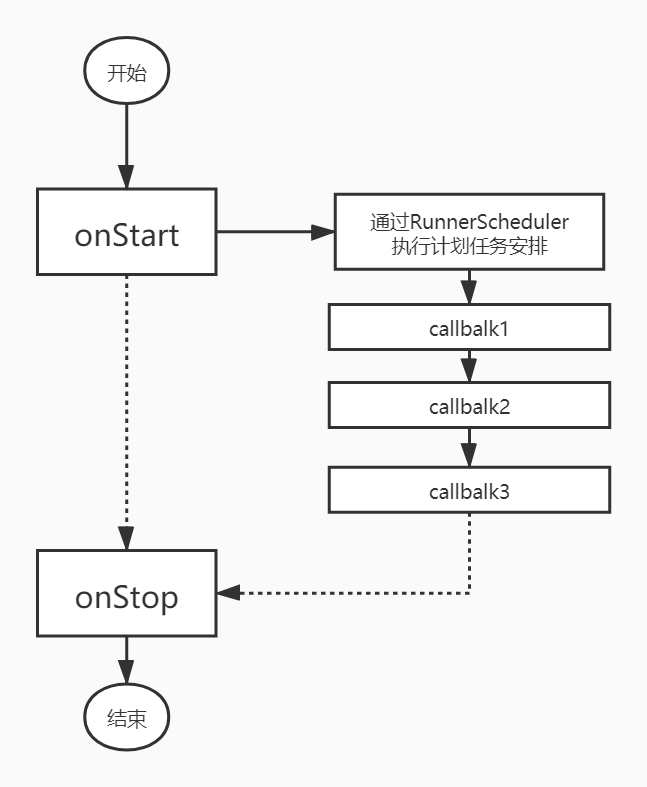
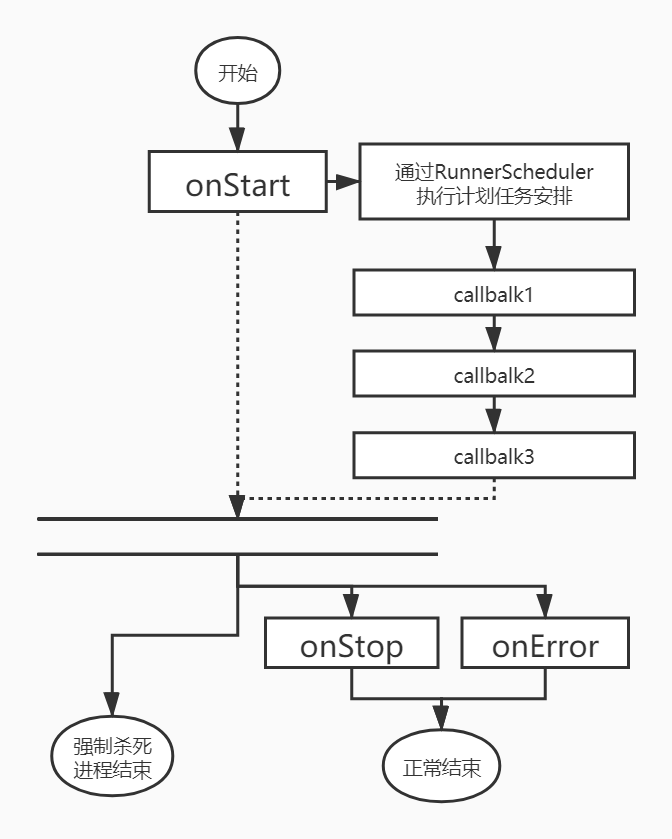
更新操作文档。

diff --git a/vnpy/earnmi_docs/book/context.md b/vnpy/earnmi_docs/book/context.md
@@ -4,7 +4,7 @@
 <span id="app"/>
 ###App与Context
 Context是所有框架的运行环境对象，提供了运行时需要的一些基本支持，如:
-+ 主线程环境
++ 主线程执行引擎对象MainEventEngine
 + 程序目录路径，创建该程序目录路径下的子目录等。
 + 日志输出
 
@@ -18,10 +18,17 @@ app.engine.go(3600*24*10)   #回测执行时间10天
 ```
    
 <span id="MainEventEvent"/>
-###主线程MainEventEvent
+###主线程操作
+主线程操作有三种，即Post事件，post方法，post定时。而主线程执行操作是由MainEventEngine引擎实现的，context只是对其方法的一个封装。
+
+post类型|Context方法|MainEventEngine方法
+--|--|--
+post事件|post()、<br/>post_delay()<br/>、post_at()|postDelay()
+post方法|post_event()|post_event()
+post定时|post_timer()|postTimer()
 
 <span id="post_event"/>
-#####post event
+#####1) post event
 以监听主线程引擎的天数变化事件MainEventEngine.EVNET_DAY_CHANED为例，如下：
 1、定义处理event的callble方法:
 
@@ -39,23 +46,7 @@ engine.register(MainEventEngine.EVNET_DAY_CHANED,onDayChangedEvent)
 engine.unregister(MainEventEngine.EVNET_DAY_CHANED,onDayChangedEvent)
 ```
 
-<span id="post_callable"/>
-#####post callable
-```python
-app = App()
-app.run()
-def run_in_ui_thread(context:Context):
-    app.log_i("run_in_ui_thread() start!") 
-app.post(lambda : run_in_ui_thread(app))
-或者:
-app.post(run_in_ui_thread,{context:app})
-
-```
-
-
-
-<span id="event"/>
-###系统Event事件汇总
+3、系统Event事件汇总
 
 event|data|说明
 --|--|--
@@ -63,6 +54,46 @@ MainEventEngine.EVNET_DAY_CHANED | engine|天数变化
 MainEventEngine.EVNET_START | engine|主线程开始执行
 MainEventEngine.EVNET_END | engine|主线程正常结束执行
 MainEventEngine.EVNET_EXCEPTION | exception|主引擎运行异常结束执行
+
+<span id="post_callable"/>
+#####2) post callable
+post操作有三种方式，post、post_delay、post_at
+
+```python
+app = App()
+app.run()
+def run_in_ui_thread(context:Context):
+    app.log_i("run_in_ui_thread() start!") 
+app.post(lambda : run_in_ui_thread(app))  ##马上提交到主线程执行
+app.post_delay(10,lambda : run_in_ui_thread(app)) ##延迟提交到主线程执行
+app.post_at("14:55:30",lambda : run_in_ui_thread(app)) ##指定今天时间提交到主线程执行
+
+或者:
+app.post(run_in_ui_thread,{'context':app}) ##马上提交到主线程执行
+app.post_delay(10,run_in_ui_thread,{'context':app}) ##延迟提交到主线程执行
+app.post_at("14:55:30",run_in_ui_thread,{'context':app} ##指定今天时间提交到主线程执行
+
+```
+
+<span id="post_timer"/>
+#####3) post timer 定时
+
+```python
+count = 0
+def do_3_time():
+    global count
+    count+=1
+    return count <3
+job = context.post_timer(10,do_3_time)
+```
+定时每隔10s执行do_3_time()，只执行三次do_3_time函数，超过三次do_3_time()函数将返回False，表示取消定时操作。
+
+另外一种方式是通过返回的job对象的cancel方法取消。
+```python
+job.cancel()
+```
+
+
 
 
 

diff --git a/vnpy/SUMMARY.md b/vnpy/SUMMARY.md
@@ -4,15 +4,18 @@
     * [运行框架]()
         * [Context运行环境](earnmi_docs/book/context.md)
             * [App与Context](earnmi_docs/book/context.md#app)
-            * [主线程MainEventEvent](earnmi_docs/book/context.md#MainEventEvent)
-                *   [post event](earnmi_docs/book/context.md#post_event)
-                *   [post callable](earnmi_docs/book/context.md#post_callable)
-            * [系统Event事件汇总](earnmi_docs/book/context.md#event)
+            * [主线程操作](earnmi_docs/book/context.md#MainEventEvent)
+                * [1) post event](earnmi_docs/book/context.md#post_event)
+                * [2) post callable](earnmi_docs/book/context.md#post_callable)
+                * [3) post timer](earnmi_docs/book/context.md#post_timer)                
         * [Runner运行框架](earnmi_docs/book/Runner运行框架.md)
-            * 基于操作单生成方式的操作策略（适用日k线)
-            * 基于因子分数的操作策略（使用日，分钟k线)
+             * [生命周期](earnmi_docs/book/Runner运行框架.md#lifecircle)
+             * [计划任务](earnmi_docs/book/Runner运行框架.md#scheduler)
+             * [状态保存](earnmi_docs/book/Runner运行框架.md#status_save)               
         * [Op操作单框架](earnmi_docs/book/op_project.md)
             * [数据库设计](earnmi_docs/book/op_project_database.md)
+            * 基于操作单生成方式的操作策略（适用日k线)
+            * 基于因子分数的操作策略（使用日，分钟k线)            
     * [行情数据](earnmi_docs/book/数据源.md)
         * [数据驱动BarDriver](earnmi_docs/book/数据源.md#BarDataDriver)
         * [行情数据BarData](earnmi_docs/book/数据源.md#BarData)
@@ -27,7 +30,7 @@
             * [!!!太乱，需要重新重构]()
     * [指标分析]()
         * [自建指标](earnmi_docs/book/自建指标.md)
-     * [日志输出](earnmi_docs/book/日志.md)
+    * [日志输出](earnmi_docs/book/日志.md)
     * [线上Runner]
         * [skdj_500]()
     * [网站系统]()

diff --git a/vnpy/earnmi_docs/book/Runner运行框架.md b/vnpy/earnmi_docs/book/Runner运行框架.md
@@ -1,30 +1,23 @@
 #实盘运行框架
 
+<span id='lifecircle'/>
 ###Runner生命周期
 ![](imges/Runner生命周期.jpg)
 
+注意:
++ onStop暂未实现
++ onStop和onError在强制杀死进程的情况是不会执行的，所以保存Runner的运行状态不应该放在这两个方法。
+
+<span id='scheduler'/>
 #####计划任务安排：
    通过Runner的RunnerScheduler对象，可以安排计划任务
 * run_monthly: 每月执行
 * run_weekly: 每周执行
 * run_daily:每天执行。
 
-#####定时操作与取消
-
-```python
-count = 0
-def do_3_time():
-    global count
-    count+=1
-    return count <3
-job = context.post_timer(10,do_3_time)
-```
-定时每隔10s执行do_3_time()，只执行三次do_3_time函数，超过三次do_3_time()函数将返回False，表示取消定时操作。
-
-另外一种方式是通过返回的job对象的cancel方法取消。
-```python
-job.cancel()
-```
+<span id='status_save'/>
+#####Runner的状态保存
+待补充
 
 
 
